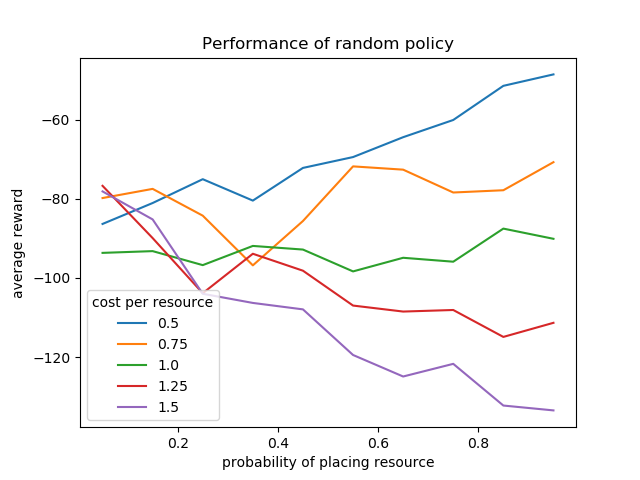
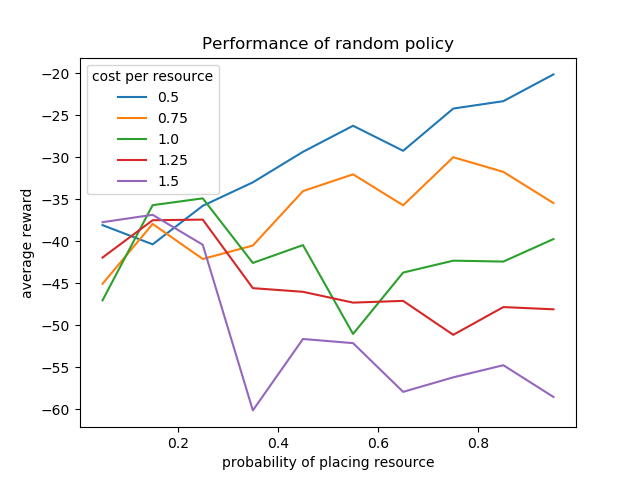
2x2 grid and change chi

diff --git a/src/wildfire.py b/src/wildfire.py
@@ -33,7 +33,7 @@ class FireGrid:
     are randomly generated. We seed fires randomly, using the fire_prob
     parameter to set the probability of a fire starting/
     """
-    def __init__(self, n, cost_per_resource=.8):
+    def __init__(self, n, cost_per_resource=1):
         self.n = n
         self.fire = np.zeros((n, n), dtype=bool)
         self.wind = np.random.rand(n, n)

diff --git a/src/random_policy.py b/src/random_policy.py
@@ -3,7 +3,7 @@ from wildfire import FireGrid
 import matplotlib.pyplot as plt
 
 
-def sim_random_policy(place_prob, cost_per_resource, grid_size=3, num_sims=50, simulation_depth=10):
+def sim_random_policy(place_prob, cost_per_resource, grid_size=2, num_sims=50, simulation_depth=10):
     rewards = []
     for iter in range(num_sims):
         grid = FireGrid(grid_size)
